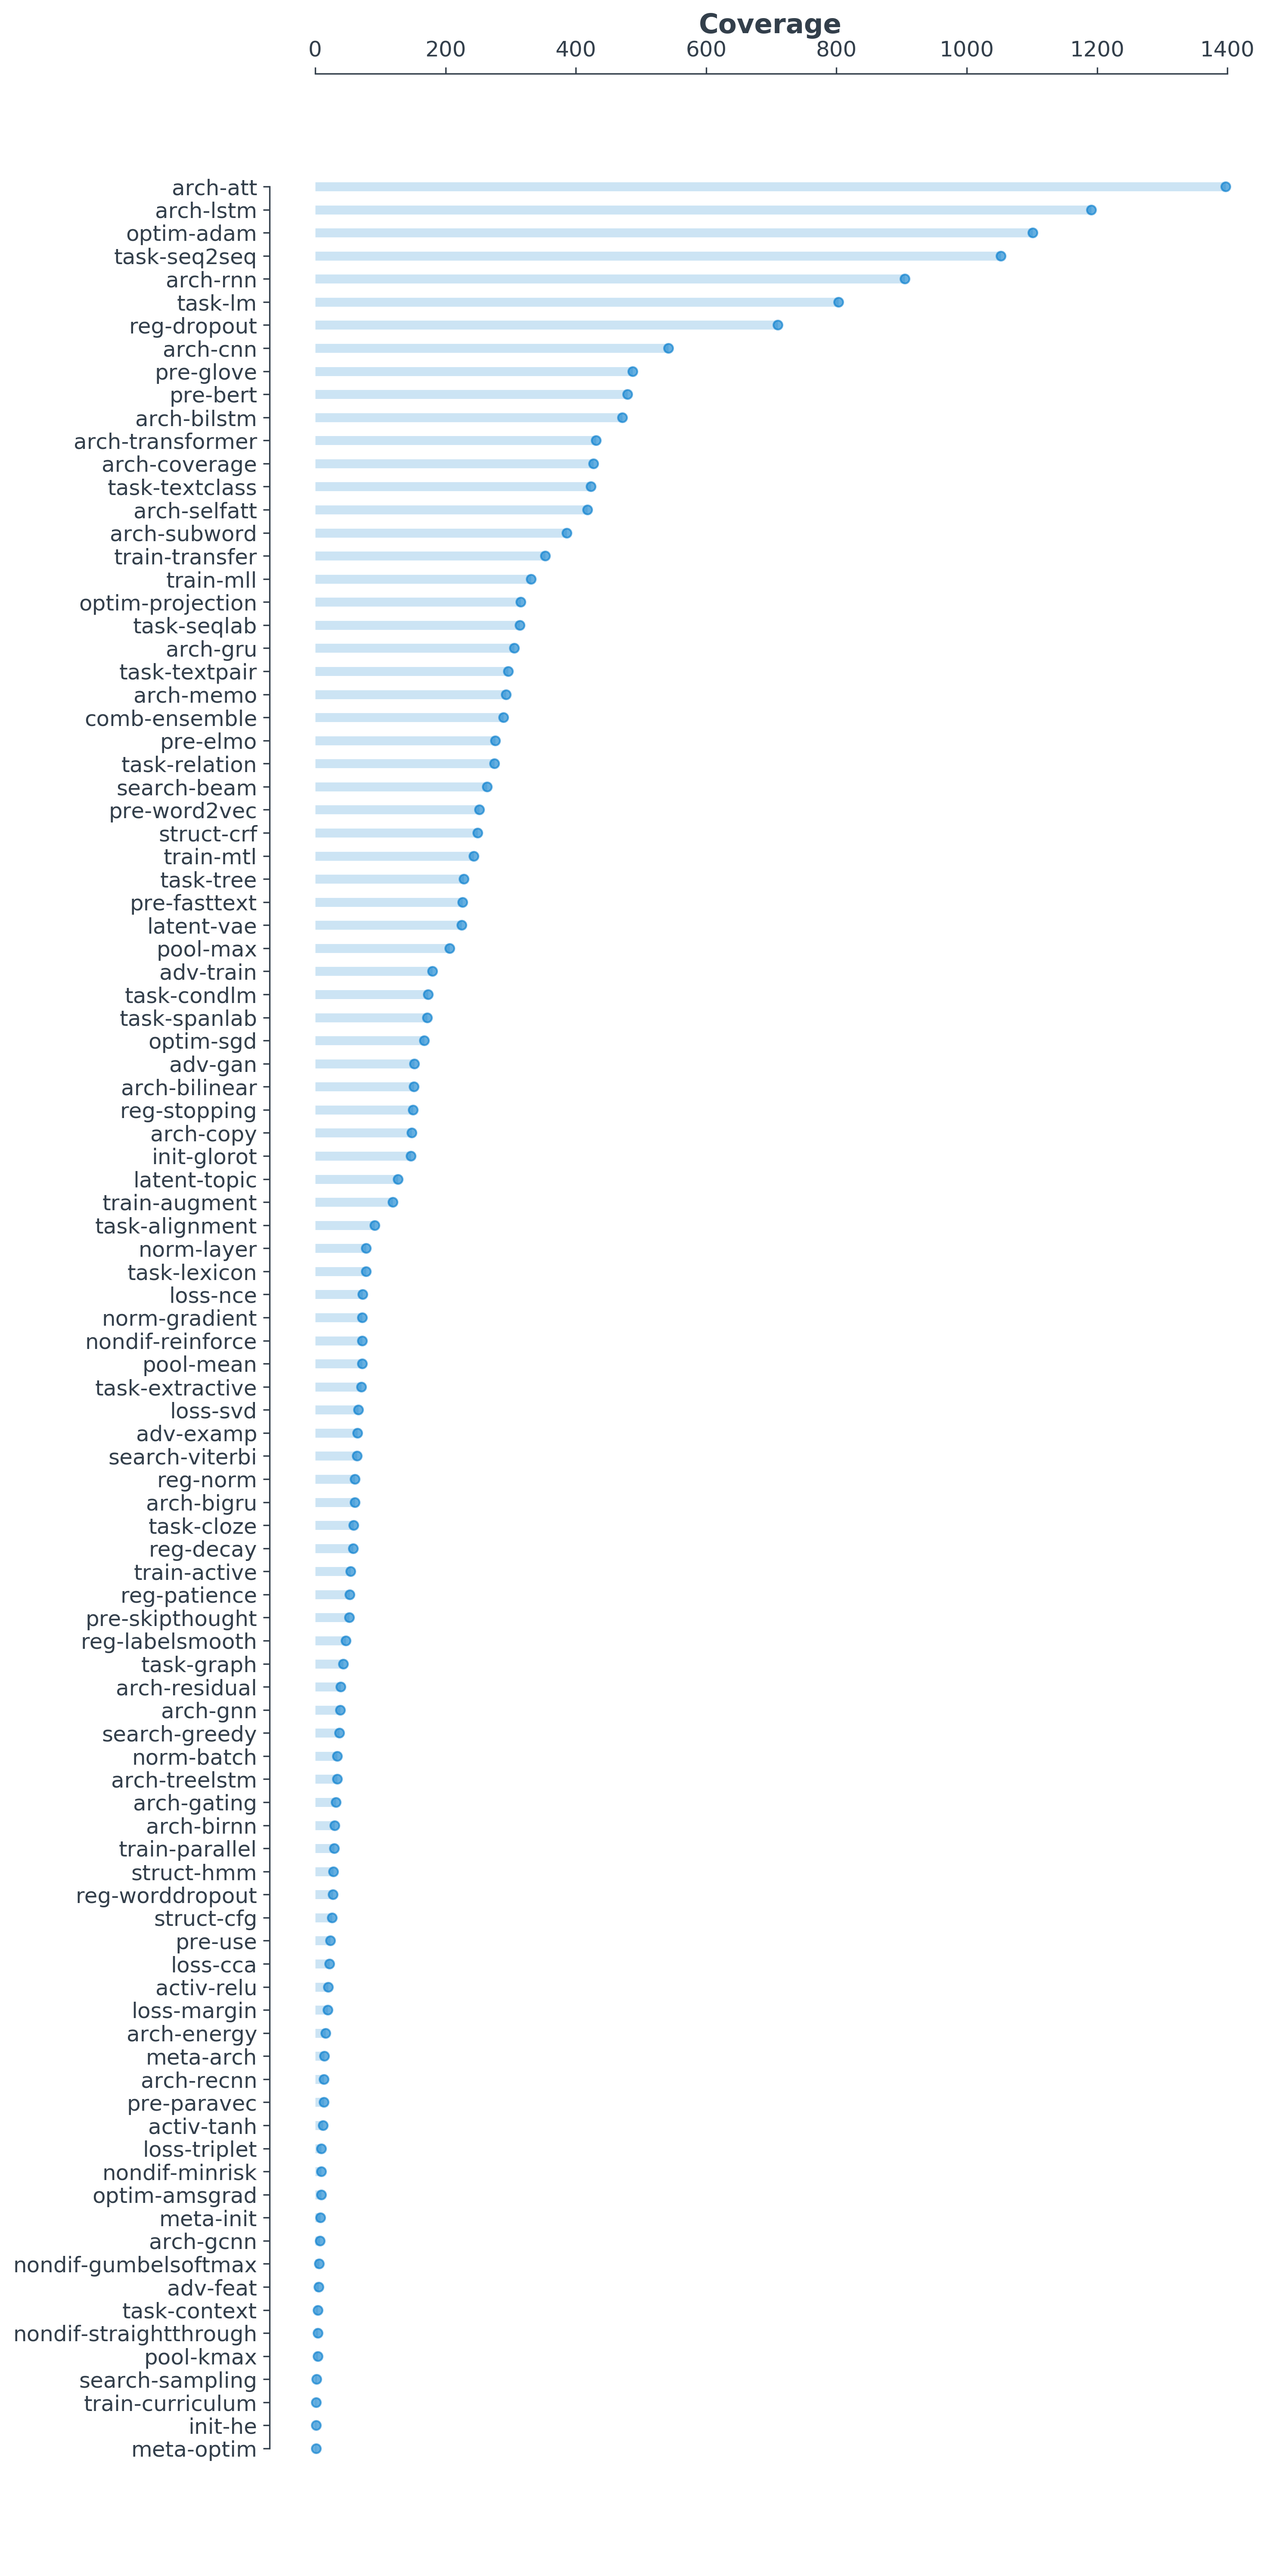
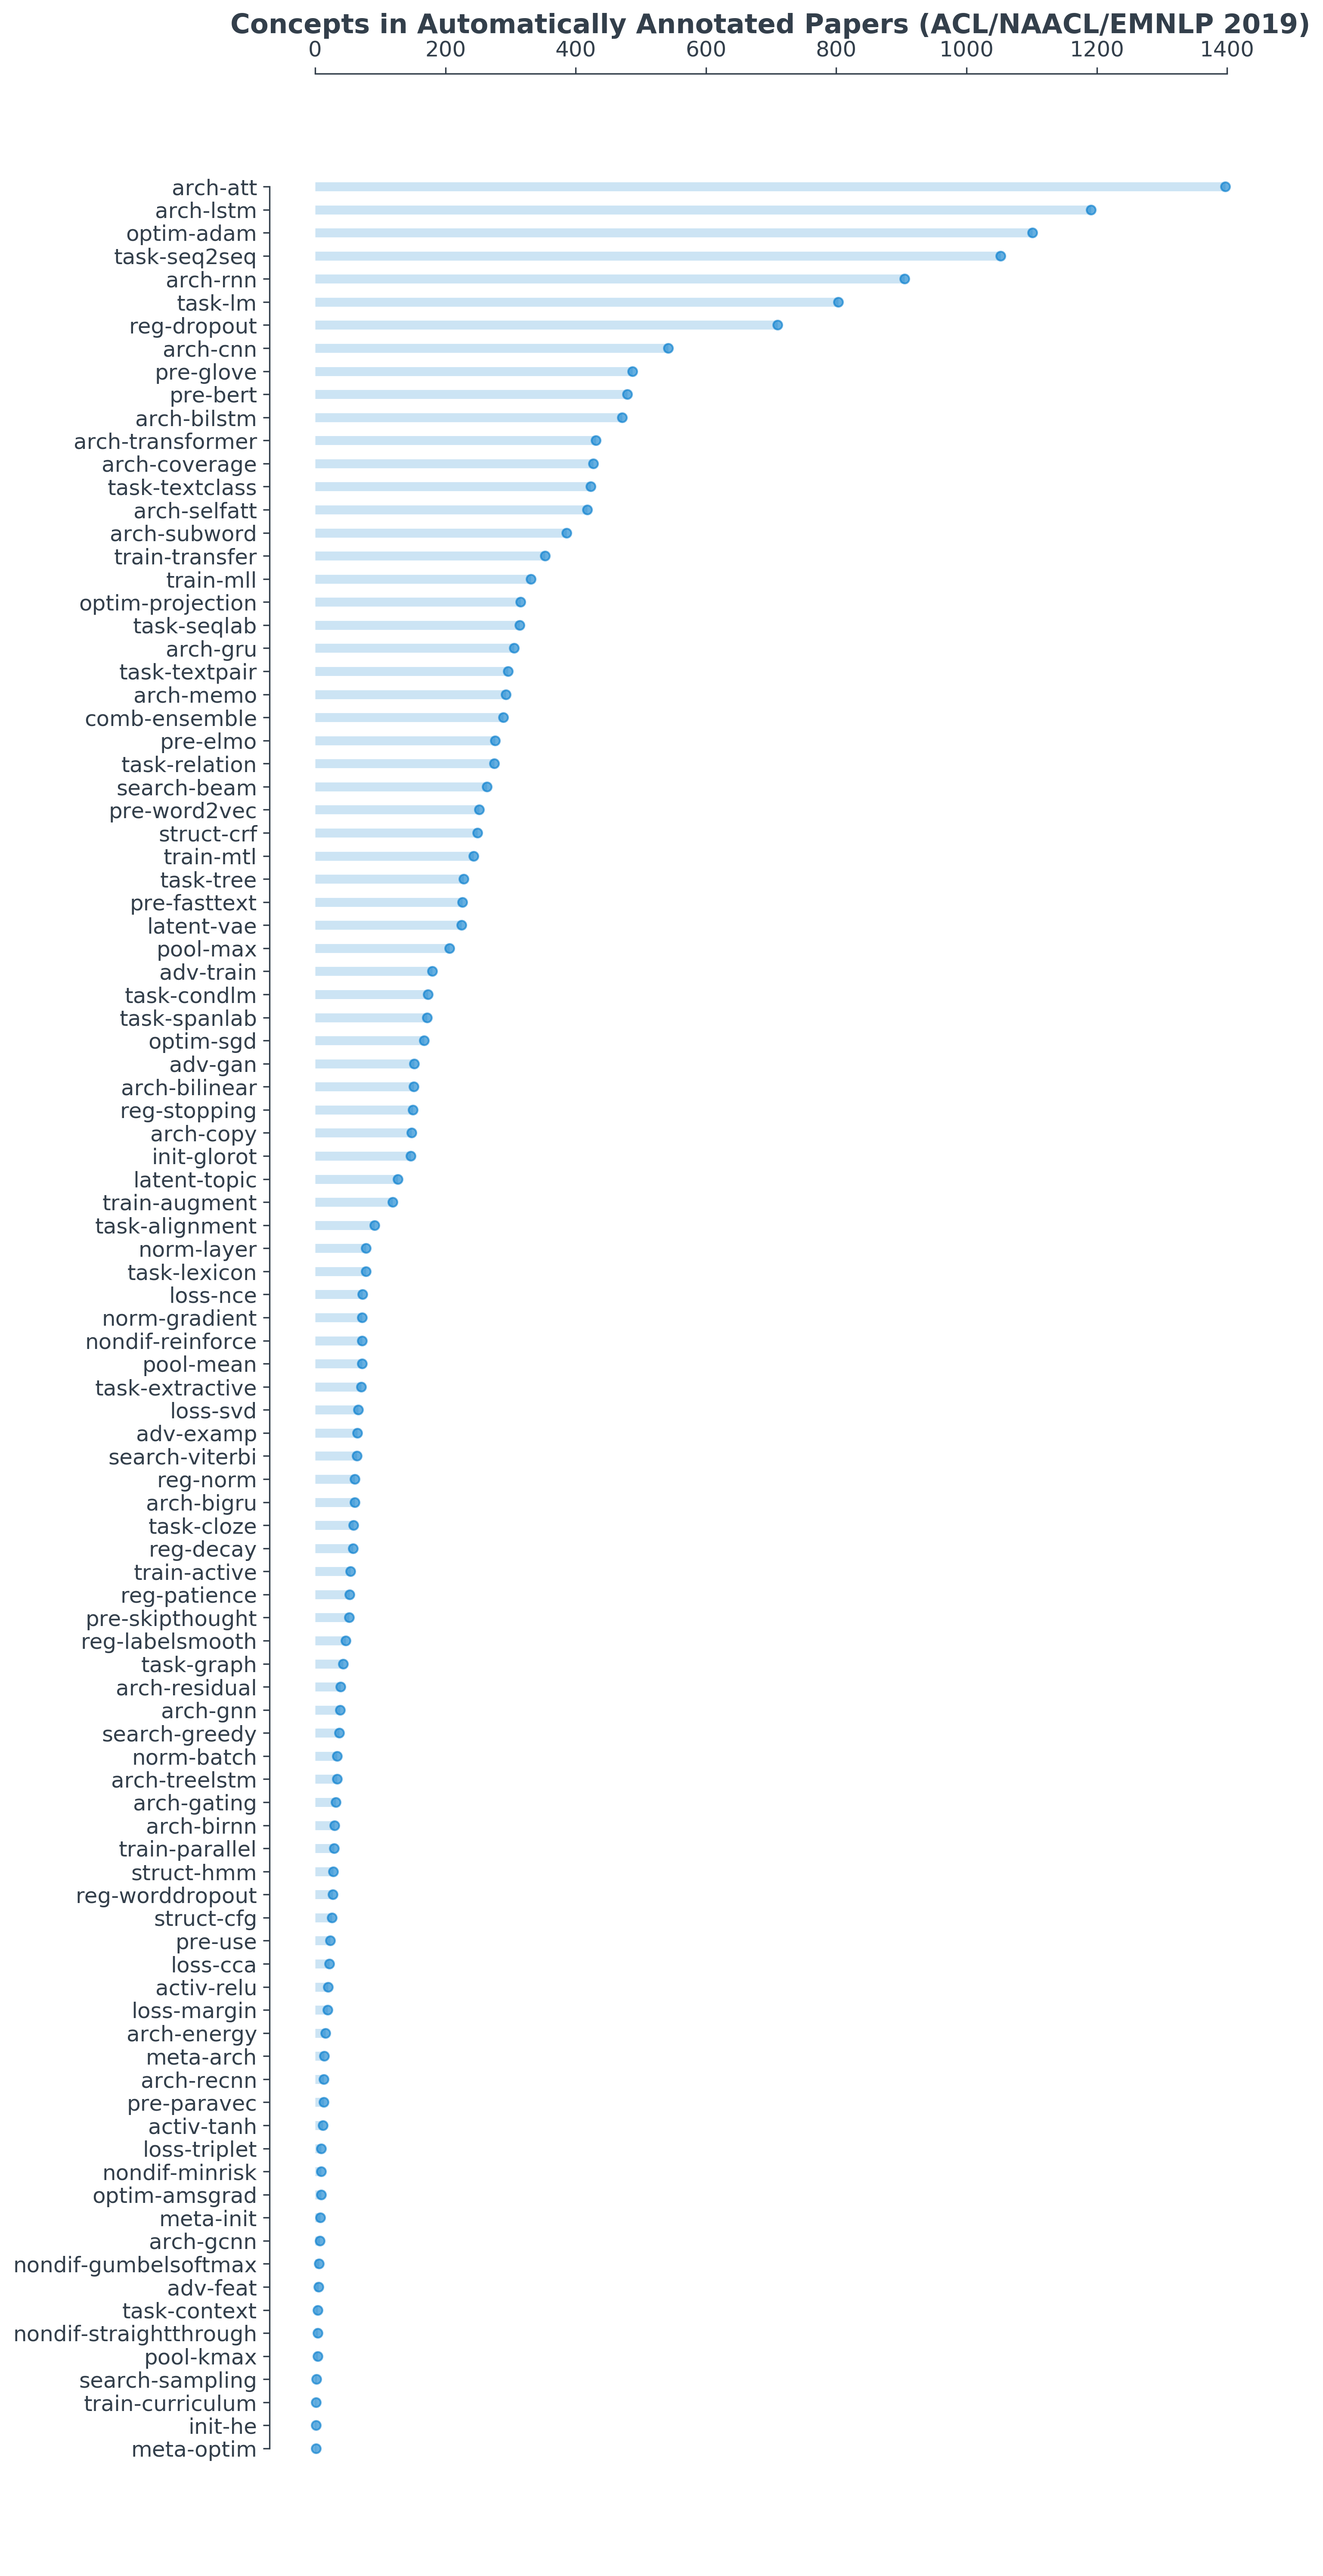
Made it possible to add titles to graphs

diff --git a/draw_bar.py b/draw_bar.py
@@ -23,6 +23,7 @@ plt.rcParams['text.color']='#333F4B'
 parser = argparse.ArgumentParser(description='Draw Bar')
 parser.add_argument('--tsv', default='input.tsv', help='input file separted by \'\\t\' ')
 parser.add_argument('--fig', default='out.png', help='the output figure')
+parser.add_argument('--title', default='Concept Count in All Papers', help='the title of the graph')
 
 args = parser.parse_args()
 
@@ -58,7 +59,7 @@ plt.hlines(y=my_range, xmin=0, xmax=df['percentage'], color='#007ACC', alpha=0.2
 plt.plot(df['percentage'], my_range, "o", markersize=5, color='#007ACC', alpha=0.6)
 
 # set labels
-ax.set_xlabel('Coverage', fontsize=15, fontweight='black', color = '#333F4B')
+ax.set_xlabel(args.title, fontsize=15, fontweight='black', color = '#333F4B')
 ax.xaxis.set_label_position('top')
 ax.xaxis.tick_top() 
 #ax.set_ylabel('')

diff --git a/README.md b/README.md
@@ -8,10 +8,8 @@ NLP (in recent papers in the [ACL anthology](http://aclanthology.info). See the 
 to see a more complete description of what each of the tags below means, and also see below if you want to contribute
 to the project, or want to figure out how to generate the graphs yourself.
 
-Manually Annotated Concepts
 ![Manually Annotated Concepts in Neural Nets for NLP](fig/annotations.png)
 
-Automatically Annotated Concepts (from ACL, EMNLP, and NAACL 2019)
 ![Automatically Annotated Concepts in Neural Nets for NLP](fig/auto.png)
 
 ## Contributing
